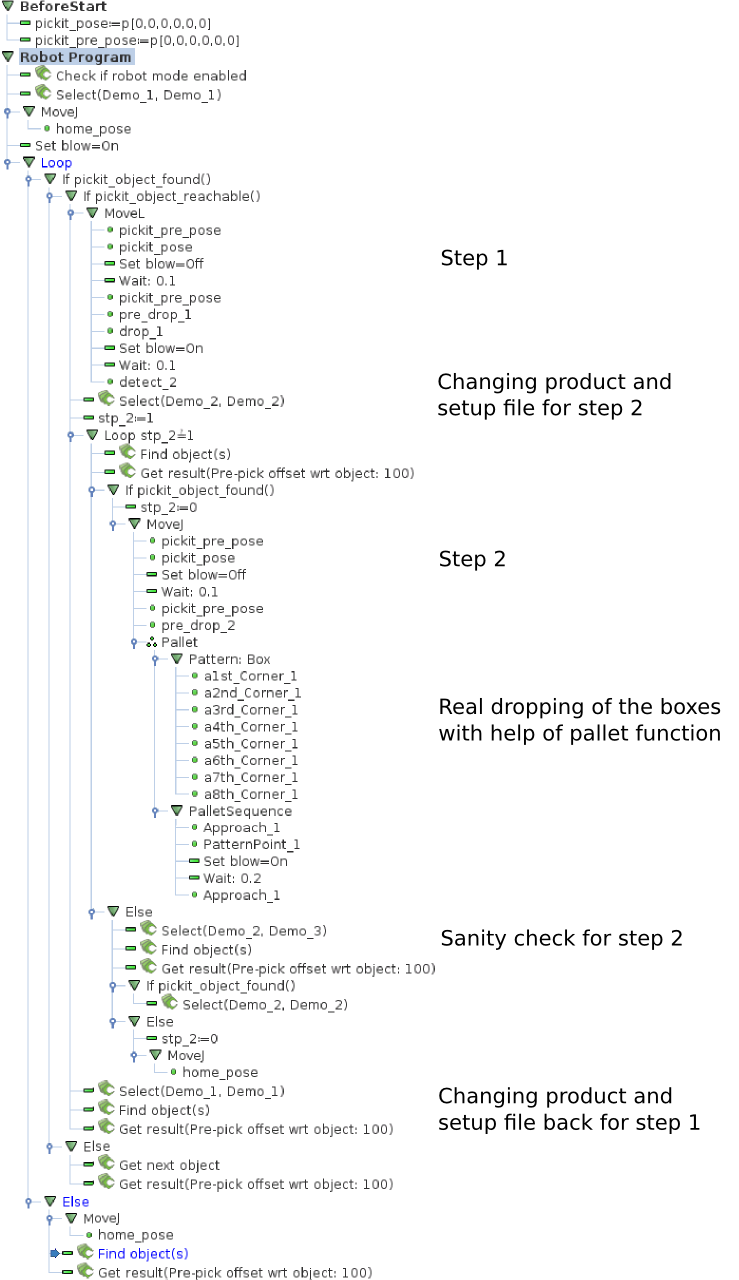
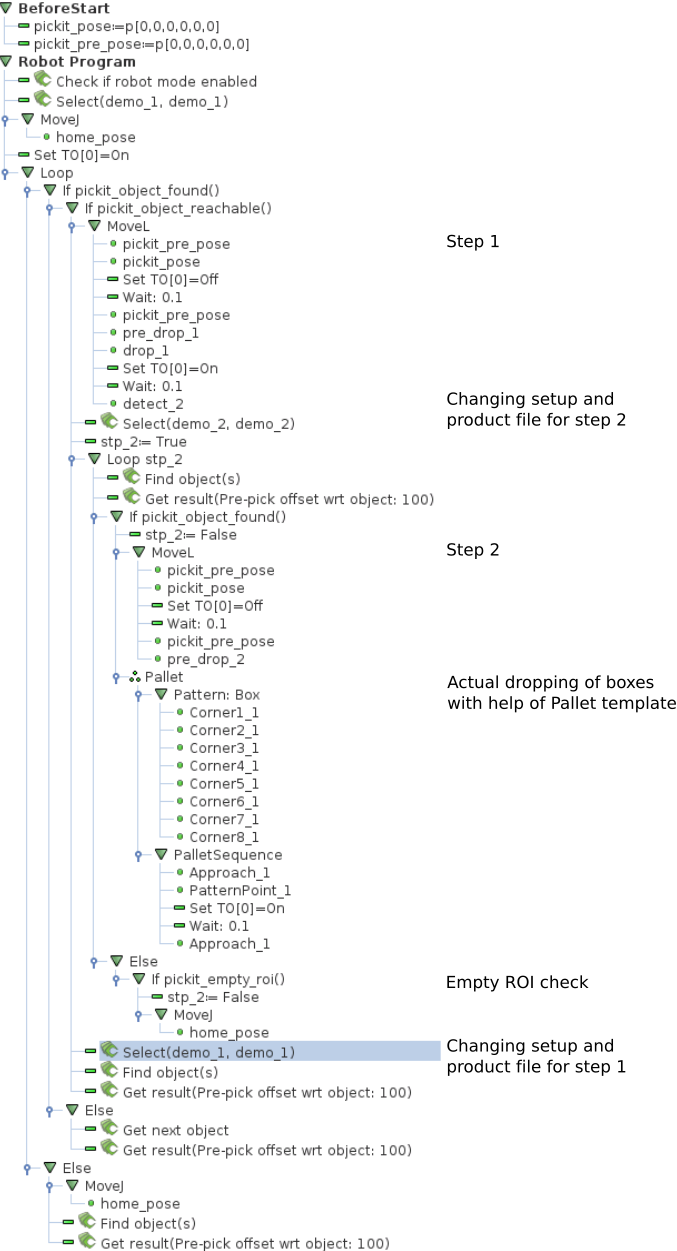
Document empty ROI feature

diff --git a/docs/documentation/setup/detecting-an-empty-roi.rst b/docs/documentation/setup/detecting-an-empty-roi.rst
@@ -1,0 +1,105 @@
+ .. _detecting-an-empty-roi:
+
+Detecting an empty ROI box
+==========================
+
+.. contents::
+  :backlinks: top
+  :local:
+  :depth: 1
+
+Motivation
+~~~~~~~~~~
+
+In some applications it's relevant to identify when the Region of Interest
+(ROI) is empty and take appropriate action.
+Consider the case where we're interested in picking boxes from a bin,
+as shown below:
+
+.. image:: /assets/images/Documentation/Roi-non-empty.png
+   :scale: 60 %
+   :align: center
+
+Initially, there are many pickable boxes, and the robot proceeds to pick them
+one by one. At some point there will be no more boxes to pick, and there are
+two scenarios that can lead to this state, which Pickit can differentiate:
+
+1. **The ROI is empty**, all boxes have been picked and nothing remains
+   in the ROI (below left).
+
+2. **The ROI is not empty**, yet there are no pickable objects.
+   This can happen when Pickit detects objects but:
+
+     - Objects are **not pickable**, for instance due to a collision between the
+       robot tool and the bin at the pick pose (below right, top blue box).
+
+     - Objects are detected, but **not reliably enough**, for instance due to
+       not being visible enough and having a too low matching score (below right,
+       bottom yellow box).
+
+.. image:: /assets/images/Documentation/Roi-empty.png
+   :align: center
+
+If the application is such that the ROI is refilled as soon as no objects are
+detected (regardless of whether it was empty or not), it's often not necessary
+to discriminate between the two above scenarios. This would be the case of a
+bin or buffer table that gets refilled whenever the robot signals it.
+
+Some applications, however, do require fully emptying the ROI.
+In depalletizing applications, for example, the top-most layer must be
+fully emptied before proceeding to the next one. If the ROI is such that it
+covers the current top layer (using the
+:ref:`dynamic box-based ROI filter <Dynamic-box-based-roi-filter>`), an empty
+ROI check can be performed before the robot moves one layer down.
+
+When the ROI is not empty, yet no objects are detected, there are a number of
+behaviors that a robot can implement to make the remaining objects detectable,
+such as the following:
+
+- If the camera is robot-mounted, the robot can run detections from **different
+  viewpoints** that might have better visibility of the remaining parts.
+
+- **Shuffle the ROI contents** to make unreachable or occluded objects pickable.
+  For instance, switch to blob detection to identify where ROI contents are,
+  and instead of picking them, attempt to knock them down or move them around.
+
+- Signal an alarm and request **human intervention**.
+
+Defining an empty ROI
+~~~~~~~~~~~~~~~~~~~~~
+
+The ROI box is considered to be empty when it contains less than a certain
+number of points. This value is set in the **Setup** page, under
+**Define empty ROI box**.
+
+.. image:: /assets/images/Documentation/Roi-define-empty.png
+   :align: center
+
+The threshold can be manually set, or can be taught by pointing the camera to an
+empty ROI (where all pickable objects have been removed) and pressing
+:guilabel:`Teach from scene`.
+This will perform a camera capture and set the empty ROI threshold based on the
+number of points contained in the ROI. The value should probably be low, but
+not necessarily zero. For example, plastic bags covering the inner walls of a
+bin are hard to fully filter out of the ROI.
+
+Note that the value taught with :guilabel:`Teach from scene` is a lower bound
+and can be manually increased, if desired.
+It should however not exceed the number of points captured when a single
+object is placed inside the box with its smallest side facing the camera.
+Otherwise the object will not be detected.
+
+Confirming an empty ROI
+~~~~~~~~~~~~~~~~~~~~~~~
+
+The Pickit web interface indicates in the detection summary when the ROI is
+considered to be empty.
+
+.. image:: /assets/images/Documentation/Roi-empty-summary.png
+   :align: center
+
+When object detection results in no matches, the robot program can confirm
+whether it was due to an empty ROI and take appropriate action.
+Refer to the documentation of the Pickit robot integrations to learn the exact
+commands for your robot brand (:ref:`UR example <helper-function-empty-roi>`),
+and to this :ref:`example application <example-empty-roi>`.

diff --git a/docs/examples/pickit-example-case-picking-of-randomly-stacked-boxes.rst b/docs/examples/pickit-example-case-picking-of-randomly-stacked-boxes.rst
@@ -43,11 +43,17 @@ Advanced ROI filter: Dynamic Box-based ROI filter
 -------------------------------------------------
 
 The boxes are stacked on a table in different layers.
-It seems logical that the robot should always focus on the top most layer first and afterwards proceed to the next layer. This is achieved by using the :ref:`Dynamic-box-based-roi-filter`, which discards any points below a specified distance from the highest points in the scene.
+It seems logical that the robot should always focus on the top most layer first
+and afterwards proceed to the next layer.
+This is achieved by using the :ref:`Dynamic-box-based-roi-filter`, which discards
+any points below a specified distance from the highest point in the Region of
+Interest (ROI).
 Below the effect of this filter is shown.
 
-Only when all boxes in the top layer are picked, the next layer becomes visible in the :ref:`Points view <points-view>`, since it now contains the highest points.
-For this application the system only keeps the points that are at most 20 mm below the highest point.
+Only when all boxes in the top layer are picked, the next layer becomes visible
+in the :ref:`Points view <points-view>`, since it now contains the highest points.
+For this application the system only keeps the points that are at most 20 mm
+below the highest point.
 
 If you are interested in more information about our advanced ROI filters you can have a look a this article: :ref:`advanced-roi-filters`.
 
@@ -87,7 +93,7 @@ Multiple step program
 After the first step the part is dropped on an isolated location.
 Then a new detection is triggered to determine the complete orientation of the part.
 For the second step a second setup and product file are created.
-The region of interest now focus on the isolated part.
+The ROI now focus on the isolated part.
 The part itself is detected using Pickit Flex, by looking for rectangles.
 
 The image below shows the complete robot program that has been used for this application.
@@ -97,17 +103,16 @@ Afterwards the setup and product files are changed back for doing step 1.
 
 .. image:: /assets/images/examples/example-case-boxes-ur-program.png
 
+.. _example-empty-roi:
+
 Detect empty ROI-box
 --------------------
 
-In the program above a sanity check is implemented.
-If in the second step for any reason the detection would not return a result.
-It is first checked if there is still something before the system looks again to find the box.
-If really nothing is found in the region of interest the program automatically goes back to the first step.
-
-To check if there is something beneath the camera a Flex detection is triggered.
-No clustering is applied, no cluster rejection is used, and no fitting is done (Blob). Objects are filtered out only based on the number of points: If less than 300 points in total are seen in the region of interest, we assume that nothing of importance is beneath the camera, so no new detection for finding the box is triggered.
-More extensive information about this method is explained in the :ref:`detect-empty-roi`.
+In the program above, the ``pickit_empty_roi()`` function is used to verify if
+there are contents inside the ROI (see :ref:`detecting-an-empty-roi` for more
+details).
+If the ROI is empty, the program goes back to the first step; else the program
+stays in the second step and looks again.
 
 Snapshots
 ---------

diff --git a/docs/robot-integrations/universal-robots/urcap/the_pickit_urcap_interface.rst b/docs/robot-integrations/universal-robots/urcap/the_pickit_urcap_interface.rst
@@ -300,6 +300,27 @@ As opposed to commands, that don't have a return value; the Pickit plugin also e
 
 .. image:: /assets/images/robot-integrations/ur/urcap-helper-functions-dropdown.png
 
+.. _helper-function-empty-roi:
+
++--------------------------------------------------------------------------+
+| **pickit_empty_roi()**                                                   |
++==========================================================================+
+| Check if the last call to :ref:`Get result <command-get-result>`         |
+| detected an empty Region of Interest (ROI).                              |
+|                                                                          |
+| **Return**                                                               |
+|    ``true`` if Pickit detected an empty ROI.                             |
+|                                                                          |
+|    When ``pickit_object_found()`` returns ``false``, it can be due to:   |
+|                                                                          |
+|    #. The ROI is not empty, but Pickit doesn't detect the active         |
+|       product.                                                           |
+|    #. The ROI is empty.                                                  |
+|                                                                          |
+|    Use this function if you need to discriminate between these two       |
+|    situations.                                                           |
++--------------------------------------------------------------------------+
+
 .. _helper-function-object-found:
 
 +--------------------------------------------------------------------------+

diff --git a/docs/faq/robot-programming/how-can-i-get-a-better-bin-picking-experience.rst b/docs/faq/robot-programming/how-can-i-get-a-better-bin-picking-experience.rst
@@ -40,8 +40,7 @@ Pickit, while others relate to your hardware setup.
    to constrain the approach direction and orientation. When enforcing
    alignment constraints it's useful to enable the bin avoidance
    strategy to improve reachability of objects close to the bin borders.
--  Consider adding an :ref:`detect-empty-roi`
-   when no more detections are found.
+-  Consider :ref:`detecting-an-empty-roi` when no more detections are found.
 -  Not related to Pickit but to bin picking in general, use a **slender
    tool** **that is as long as the bin depth**. Leaving bulky parts of
    the tool and the robot outside of the bin at all times greatly

diff --git a/docs/documentation/setup/index.rst b/docs/documentation/setup/index.rst
@@ -59,6 +59,7 @@ in it can be visualized in the :ref:`Points view <points-view>`.
     fix-roi-box
     build-roi-box
     fine-tune-roi-box
+    detecting-an-empty-roi
     exclude-3d-information-based-on-color
     advanced-filters
     bin-box
